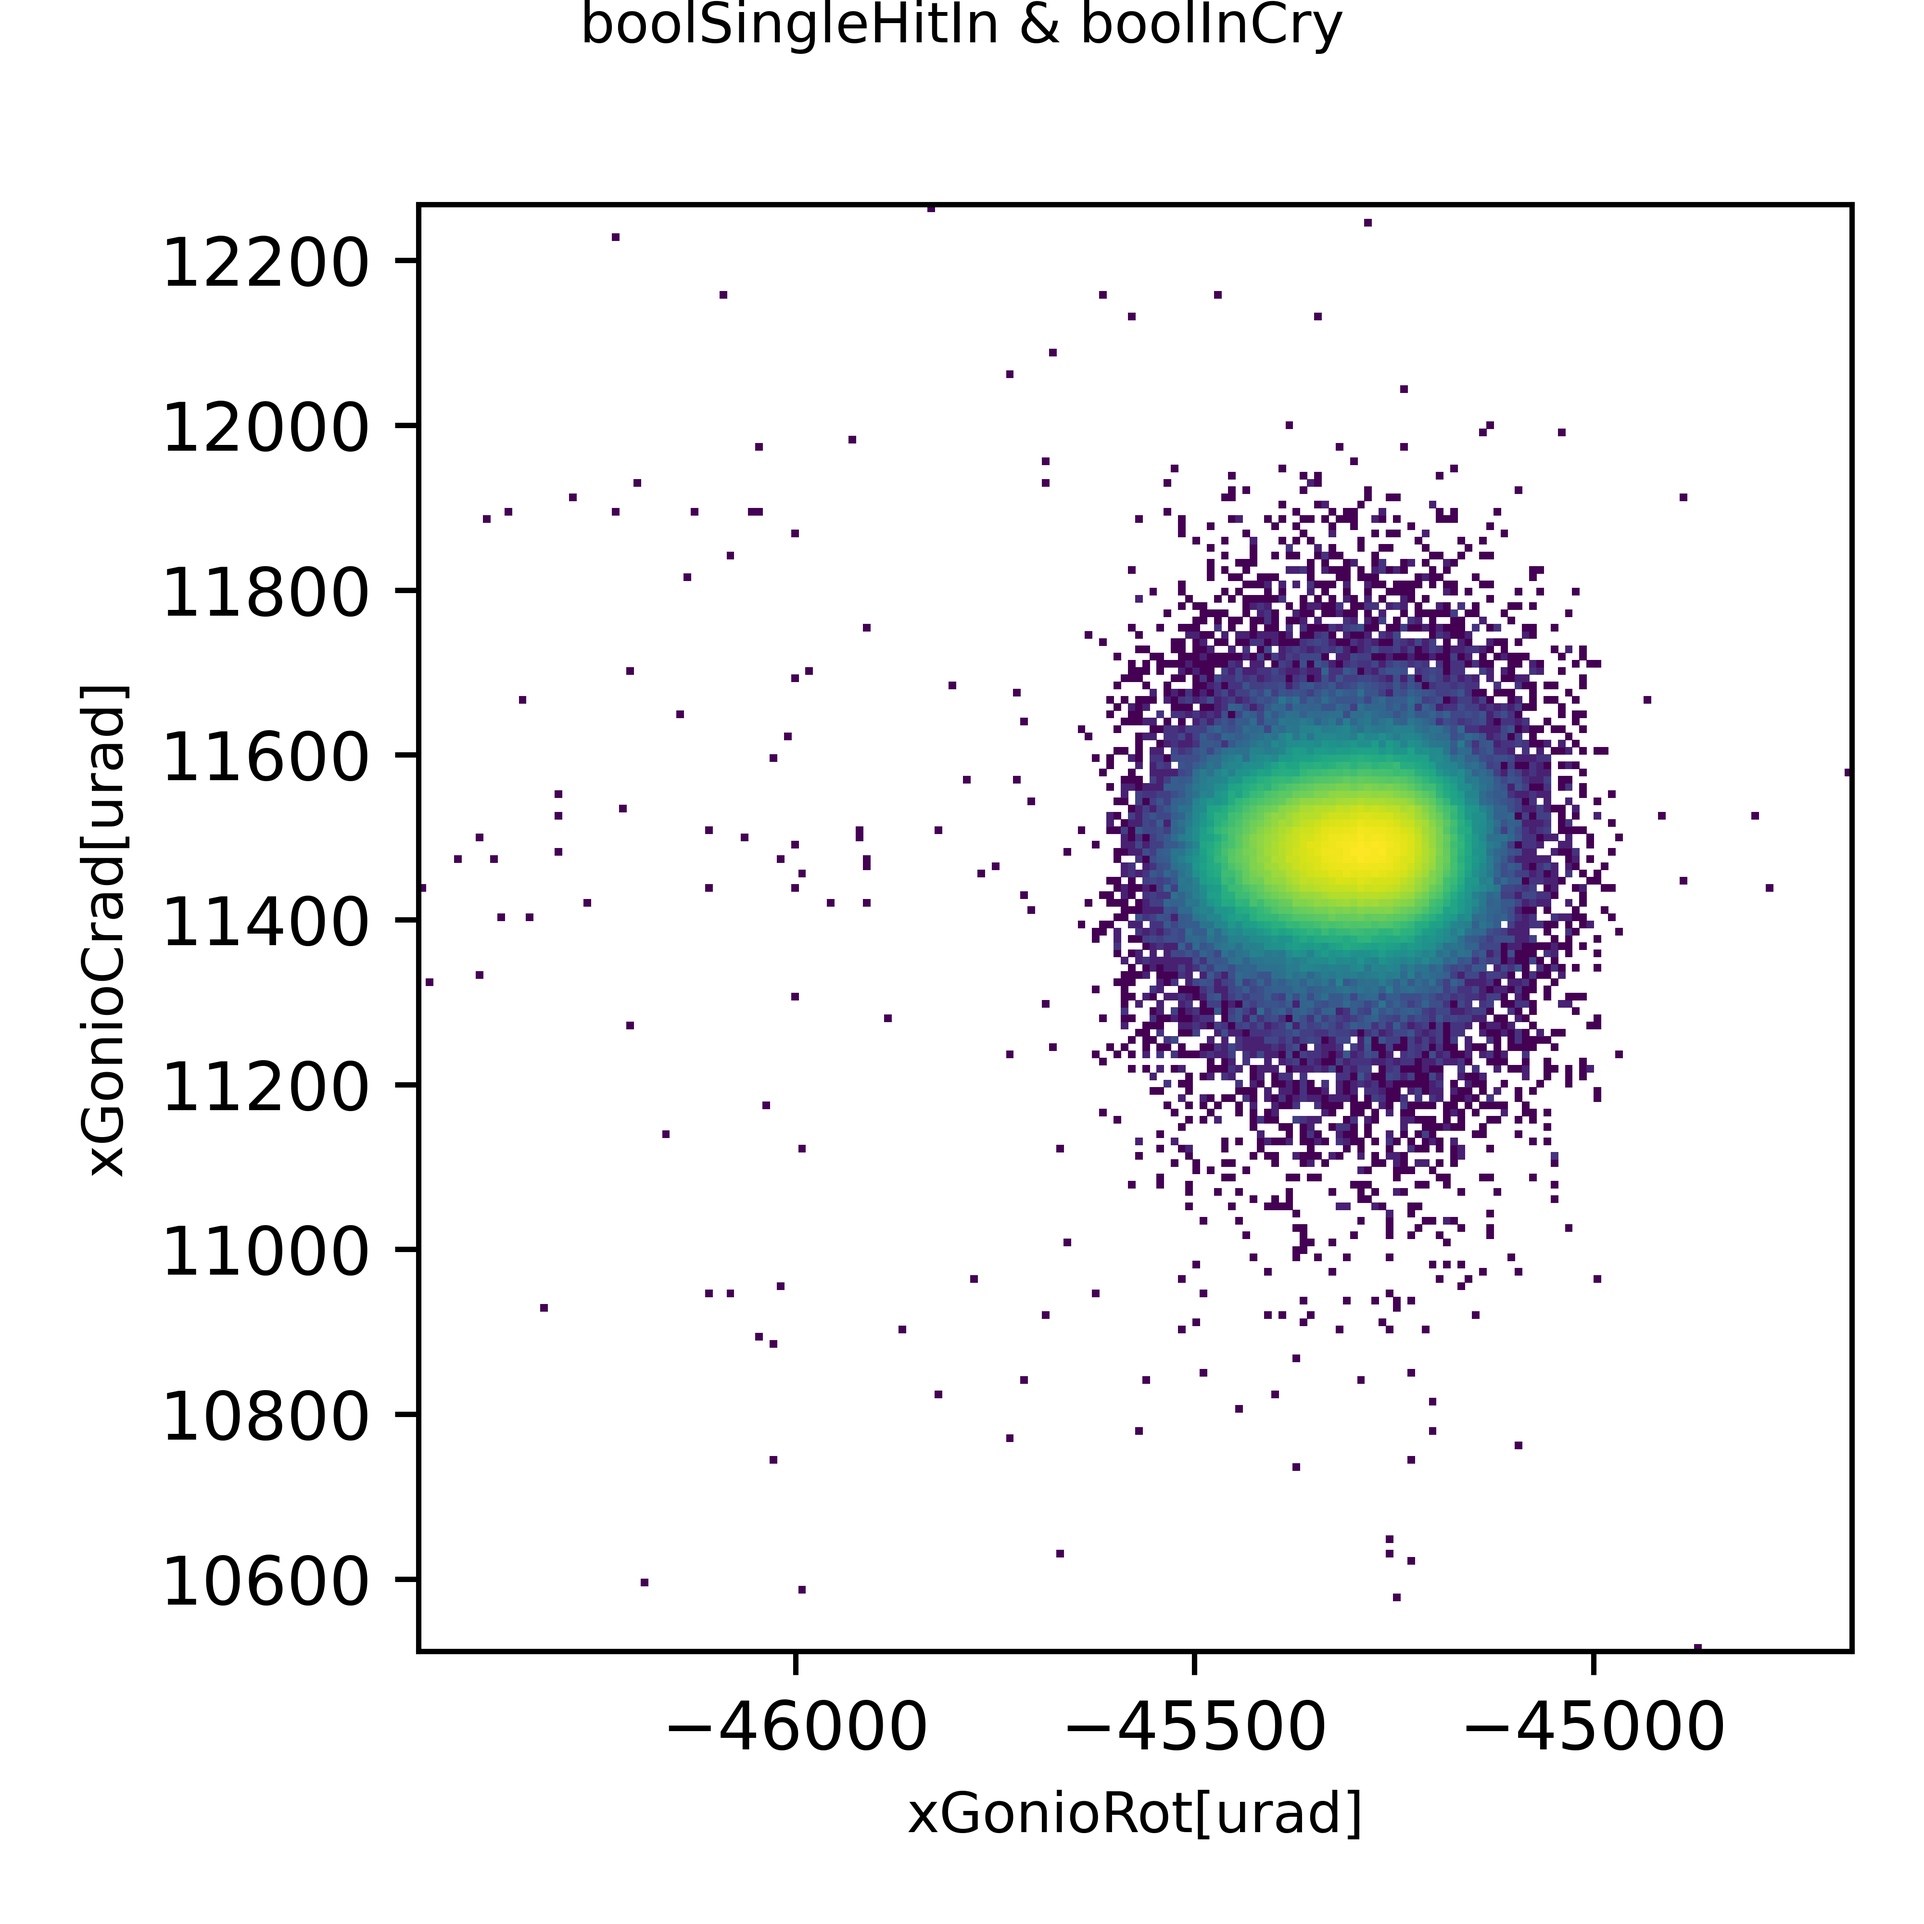
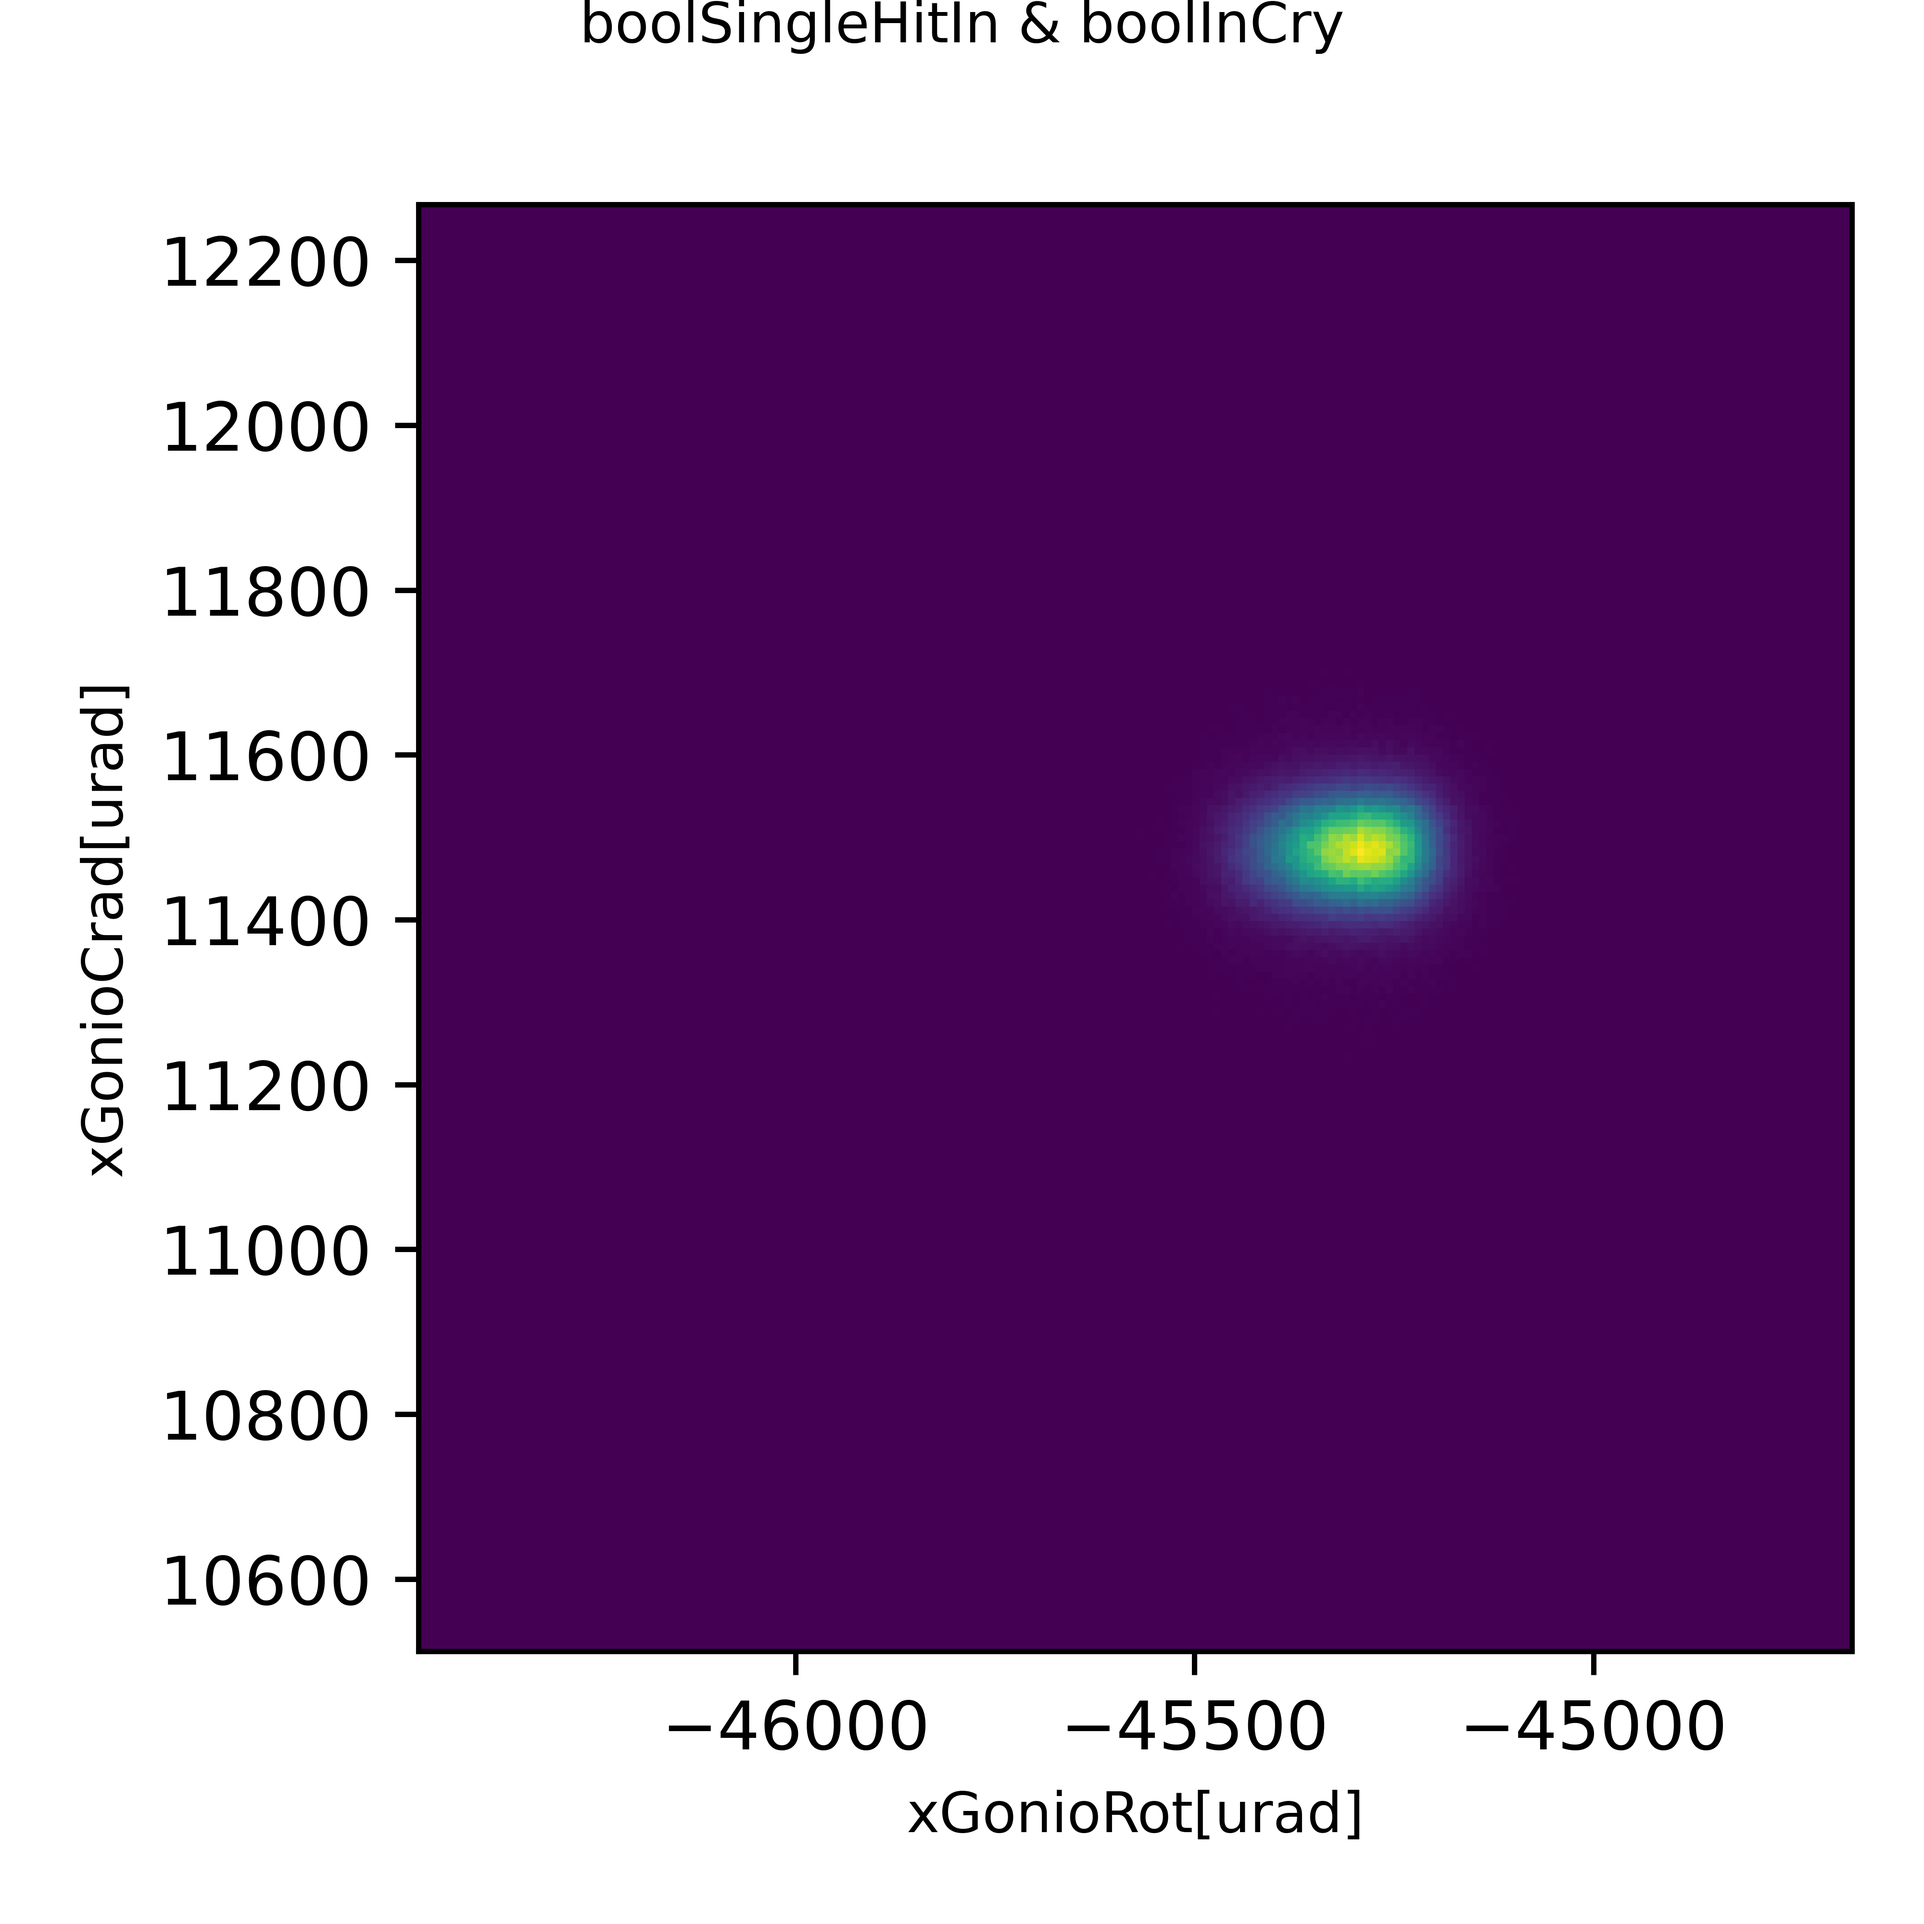
added bLog boolean to most plots

diff --git a/modules/plots.py b/modules/plots.py
@@ -105,13 +105,13 @@ def plot_th(
     
     binSize = None,  # if None, 100 bins
     lsBool = [],  # list of boolean names (to be defined a priori as variables in df) to filter the data to plot
-    bLog = False,  # if True (False), log (lin) scale on y
     xRange = [None, None],  # length 2 -- left-then-right, same for both x & y -- if value is None, corresponding boundary position is defined automatically
     bFit = False,  # fit & corresponding parameter output (on both vistas) is performed only if True
     fitSigma = None,  # starting point for gaussian sigma fit (set to ~ half the distribution FWHM) -- if None, automatically computed
     outData = {},  # dictionary that will be updated with the spectrum & fit parameters -- details below...
     bSel = False,  # cut edges are drawn only if True
     thSel = {},  # cut shape -- details below...
+    bLog = False,  # if True (False), log (lin) scale on y
     fitC = plt.rcParams['axes.prop_cycle'].by_key()['color'][0],
     fitW = plt.rcParams['lines.linewidth'],
     lineC = plt.rcParams['axes.prop_cycle'].by_key()['color'][0],
@@ -235,7 +235,6 @@ def plot_nHit(
     var,  # MANDATORY -- full df name of the multiplicity value under study (e.g. "nHitIn")
 
     lsBool = [],  # list of boolean names (to be defined a priori as variables in df) to filter the data to plot
-    bLog=False,  # if True (False), log (lin) scale on y in 1d plots & z in 2d plots
     bEpoch=False,  # set it True only if the epoch variable actually exists in df
     bUseEpoch=False,  # if False, event index in the current execution (always available) is used -- only if epoch in df, otherwise index anyway
     maxNHit=None,  # multiplicity upper limit in plots -- if None, range (& binning) automatically defined
@@ -243,6 +242,7 @@ def plot_nHit(
     bSel=False,  # cut edges are drawn only if True
     hitSel={},  # cut shape -- details below...
     outData={},  # dictionary that will be updated with the spectrum (1d & 2d) parameters -- details below...
+    bLog=False,  # if True (False), log (lin) scale on y in 1d plots & z in 2d plots
     lineC = plt.rcParams['axes.prop_cycle'].by_key()['color'][0],
     lineW = plt.rcParams['lines.linewidth'],
     pal2d = plt.rcParams["image.cmap"],
@@ -385,6 +385,7 @@ def plot_proj(
     hRange = [None, None],  # plot range -- shape [rangeX, rangeY] with range = [left, right] or None (i.e. automatic computation)
     bSel=False,  # cut edges are drawn only if True
     fidSel={},  # cut shape -- details below...
+    bLog = False,  # if True (False), log (lin) scale on z
     lineC = plt.rcParams['axes.prop_cycle'].by_key()['color'][0],
     lineW = plt.rcParams['lines.linewidth'],
     pal2d = plt.rcParams["image.cmap"],
@@ -422,7 +423,7 @@ def plot_proj(
     bins = [int(abs(hRange[0][1] - hRange[0][0]) / binSize), int(abs(hRange[1][1] - hRange[1][0]) / binSize)] if binSize!=None else [100, 100]
 
     # histogram
-    ax.hist2d(x, y, bins=bins, range=hRange, cmap=pal2d)
+    ax.hist2d(x, y, bins=bins, range=hRange, cmap=pal2d, norm=LogNorm() if bLog else Normalize())
     ax.set_xlabel(xFullName, fontsize="small")
     ax.set_ylabel(yFullName, fontsize="small")
     
@@ -448,6 +449,7 @@ def plot_gonioCorr(
     lsVar,  # MANDATORY -- x-then-y, format: part of the variable name following "xGonioRaw"
     
     lsBool = [],  # list of boolean names (to be defined a priori as variables in df) to filter the data to plot
+    bLog = False,  # if True (False), log (lin) scale on z
     pal2d = plt.rcParams["image.cmap"],
     units={},
     xSize=plt.rcParams["figure.figsize"][0],
@@ -478,7 +480,7 @@ def plot_gonioCorr(
     xFullName = x.name + (units[x.name] if x.name in units else "")
     yFullName = y.name + (units[y.name] if y.name in units else "")
 
-    ax.hist2d(x, y, bins=bins, cmap=pal2d, norm=LogNorm())
+    ax.hist2d(x, y, bins=bins, cmap=pal2d, norm=LogNorm() if bLog else Normalize())
     ax.set_xlabel(xFullName, fontsize="small")
     ax.set_ylabel(yFullName, fontsize="small")
     
@@ -503,6 +505,7 @@ def plot_digi(
     bSel = False,  # cut edges are drawn only if True
     PHSel = {},  # x cut shape (overall cut x & y) -- details below...
     timeSel = {},  # y cut shape (overall cut x & y) -- details below...
+    bLog = False,  # if True (False), log (lin) scale on z
     lineC = plt.rcParams['axes.prop_cycle'].by_key()['color'][0],
     lineW = plt.rcParams['lines.linewidth'],
     pal2d = plt.rcParams["image.cmap"],
@@ -555,7 +558,7 @@ def plot_digi(
         if bDigiTime[iVar]:  # time data available --> 2d histogram (PH vs time)
             hRange = [[x[iVar].min(), x[iVar].max()], [y[iVar].min(), y[iVar].max()]]
             bins = [int(abs((hRange[0][1] - hRange[0][0]) / binSize[0])) if binSize[0]!=None else 100, int(abs((hRange[1][1] - hRange[1][0]) / binSize[1])) if binSize[1]!=None else 100]
-            ax[xAx, yAx].hist2d(x[iVar], y[iVar], bins=bins, range=hRange, cmap=pal2d, norm=LogNorm())
+            ax[xAx, yAx].hist2d(x[iVar], y[iVar], bins=bins, range=hRange, cmap=pal2d, norm=LogNorm() if bLog else Normalize())
             ax[xAx, yAx].set_xlabel(xFullName, fontsize="small")
             ax[xAx, yAx].set_ylabel(yFullName, fontsize="small")
             
@@ -762,9 +765,9 @@ def plot_gonioTrends(
     varY,  # MANDATORY -- full variable name in df
     dictGonioX,  # MANDATORY -- list of goniometer DOF to be studied with varY & of analysis parameter -- check below... 
     
-    bLog = False,  # if True (False), log (lin) scale on z
     lsBool = [],  # list of boolean names (to be defined a priori as variables in df) to filter the data to plot
     outData = {},  # dictionary that will be updated with the profile plots & fit parameters -- details below...
+    bLog = False,  # if True (False), log (lin) scale on z
     fitC = plt.rcParams['axes.prop_cycle'].by_key()['color'][0],
     fitW = plt.rcParams['lines.linewidth'],
     lineC = plt.rcParams['axes.prop_cycle'].by_key()['color'][0],
